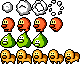
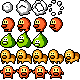
Additional enemy

diff --git a/src/enemy.js b/src/enemy.js
@@ -106,6 +106,10 @@ export class Enemy extends GameObject {
     }
 
 
+    // Deal with player, mostly to get the position
+    checkPlayer(o) { }
+
+
     floorEvent(ev) {
 
         this.canJump = true;
@@ -144,10 +148,6 @@ export class Walker extends Enemy {
             this.pos.x += this.speed.x * ev.step;
         }
     }
-
-
-    // Deal with player, mostly to get the position
-    checkPlayer(o) {}
 
 
     // Animate
@@ -248,8 +248,6 @@ export class Dog extends Enemy {
 
         super(x, y);
 
-        
-
         this.spr.setFrame(1, 0);
 
         this.target.y = 2;
@@ -299,3 +297,38 @@ export class Dog extends Enemy {
     }
 }
 
+
+
+export class Imp extends Enemy {
+
+    constructor(x, y) {
+
+        super(x, y);
+
+        this.spr.setFrame(3, 0);
+
+        this.startY = y;
+
+        this.waveTimer = (((y/16)|0) % 2) * Math.PI;
+    }
+
+
+    // Logic
+    updateLogic(ev) { 
+
+        const AMPLITUDE = 16.0;
+        const WAVE_SPEED = 0.025;
+
+        this.waveTimer = (this.waveTimer + WAVE_SPEED*ev.step) % (Math.PI*2);
+
+        this.pos.y = this.startY + 
+            Math.round(Math.sin(this.waveTimer) * AMPLITUDE);
+    }
+
+
+    // Animate
+    animate(ev) {
+
+        this.spr.animate(4, 0, 3, 6, ev.step);
+    }
+}

diff --git a/src/stage.js b/src/stage.js
@@ -7,7 +7,7 @@
 
 import { negMod, clamp } from "./core/util.js";
 import { Coin, Heart } from "./collectable.js";
-import { Walker, Slime, Dog } from "./enemy.js";
+import { Walker, Slime, Dog, Imp } from "./enemy.js";
 import { Vector2 } from "./core/vector.js";
 
 
@@ -160,7 +160,8 @@ export class Stage {
                 case 17:
                 case 18:
                 case 19:
-                    objm.addEnemy( [Walker, Slime, Dog] [t-17], x*16, y*16);
+                case 20:
+                    objm.addEnemy( [Walker, Slime, Dog, Imp] [t-17], x*16, y*16);
                     break;
 
                 default:
